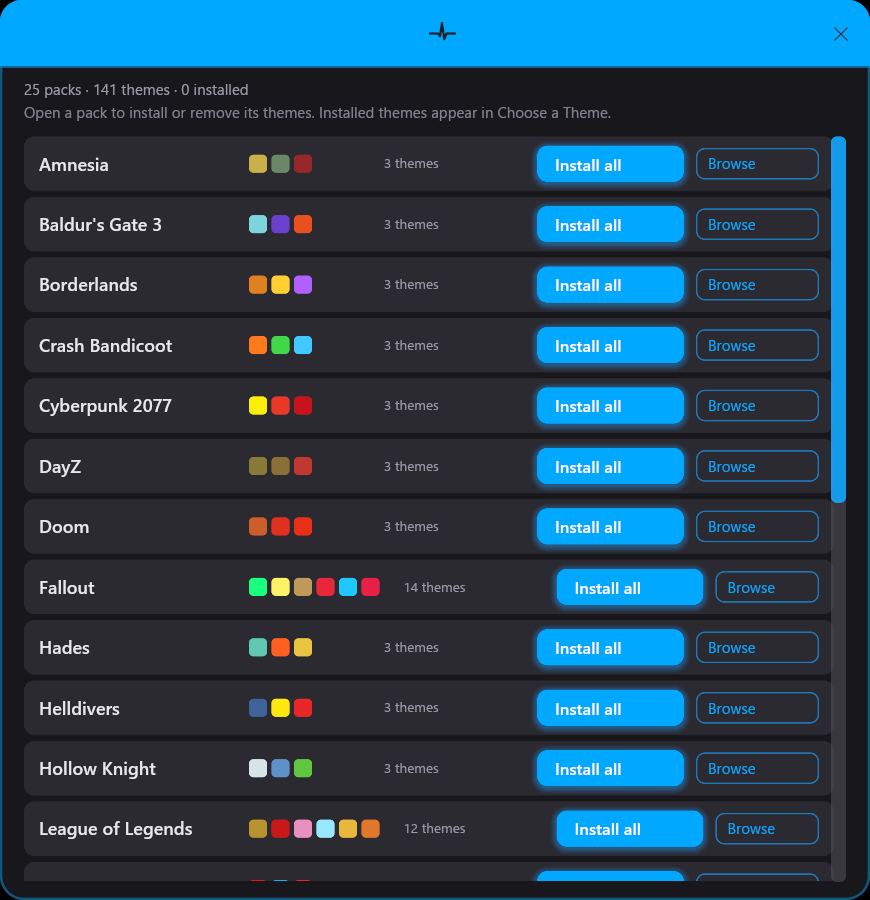
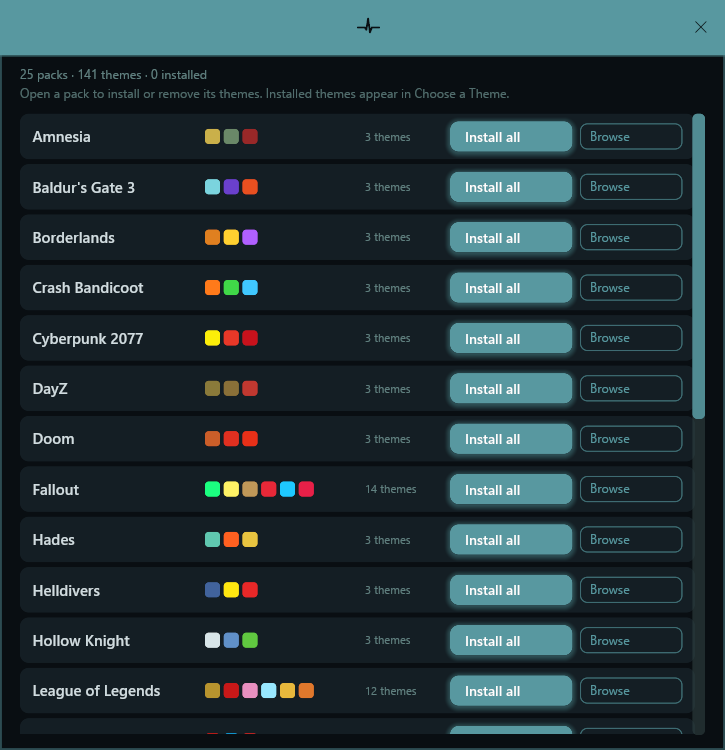
readme: v1.0.19 release badge + refresh Theme Store screenshot
Recapture the Theme Store with the fixed button-column alignment (no more
6-chip pack overflow).

diff --git a/README.md b/README.md
@@ -8,7 +8,7 @@
 
 Real-time CPU, GPU, RAM, network, and disk stats — always on your desktop, never in your way.
 
-[![Release](https://img.shields.io/badge/release-v1.0.18-5898a0)](../../releases)
+[![Release](https://img.shields.io/badge/release-v1.0.19-5898a0)](../../releases)
 [![Platform](https://img.shields.io/badge/platform-Windows%2010%2F11-0078d4)](#requirements)
 [![Built with Rust](https://img.shields.io/badge/built%20with-Rust%20%2B%20iced-dea584)](https://iced.rs)
 [![License](https://img.shields.io/badge/license-Personal%20Use-c0392b)](LICENSE)